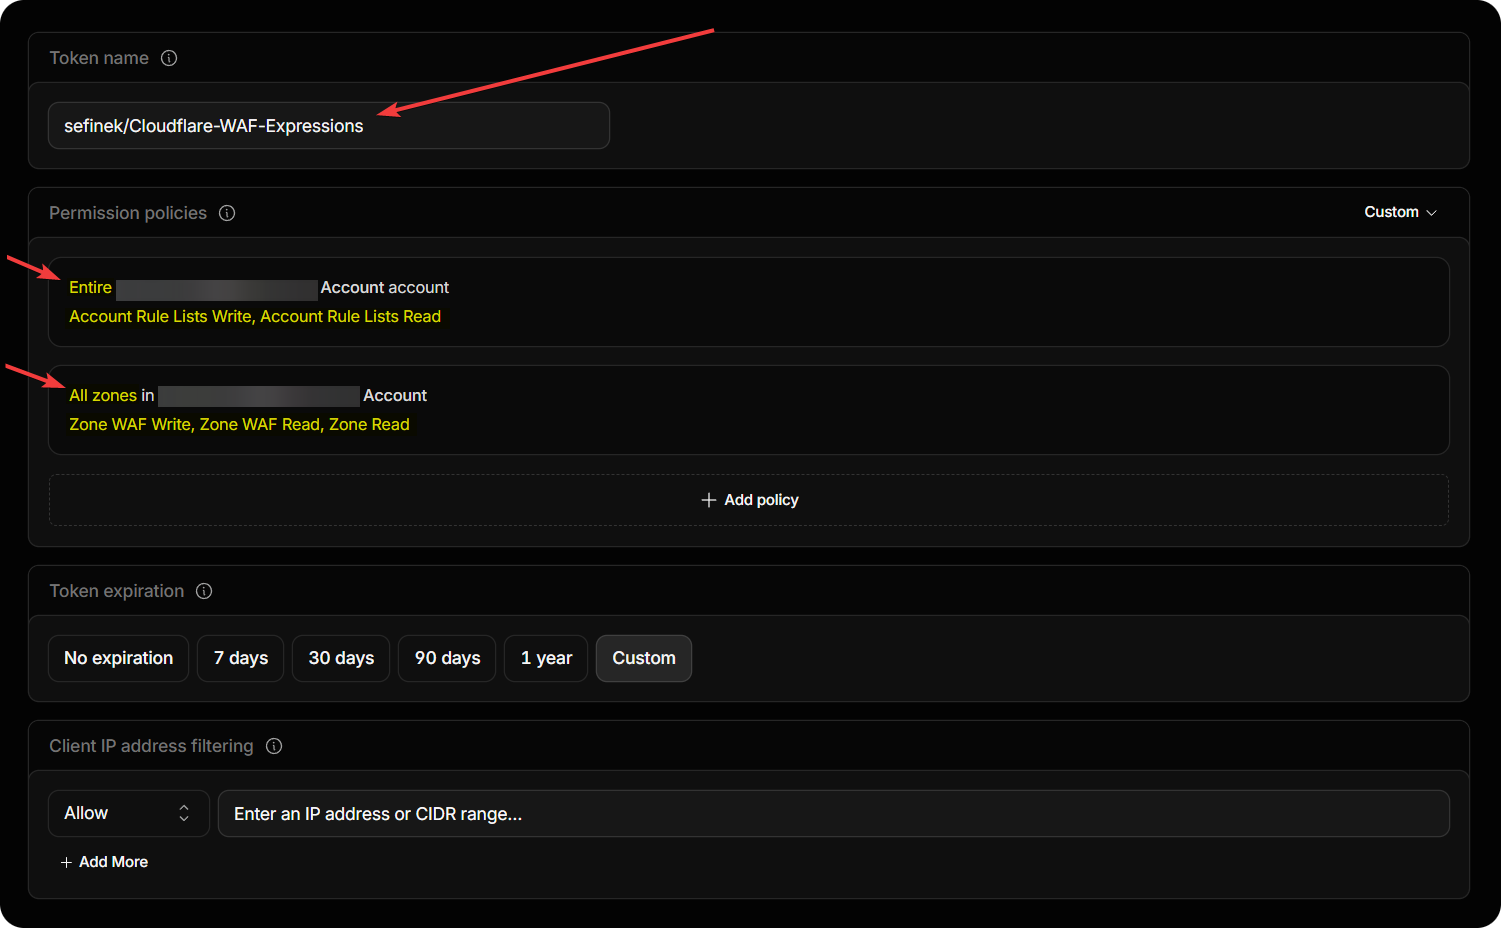
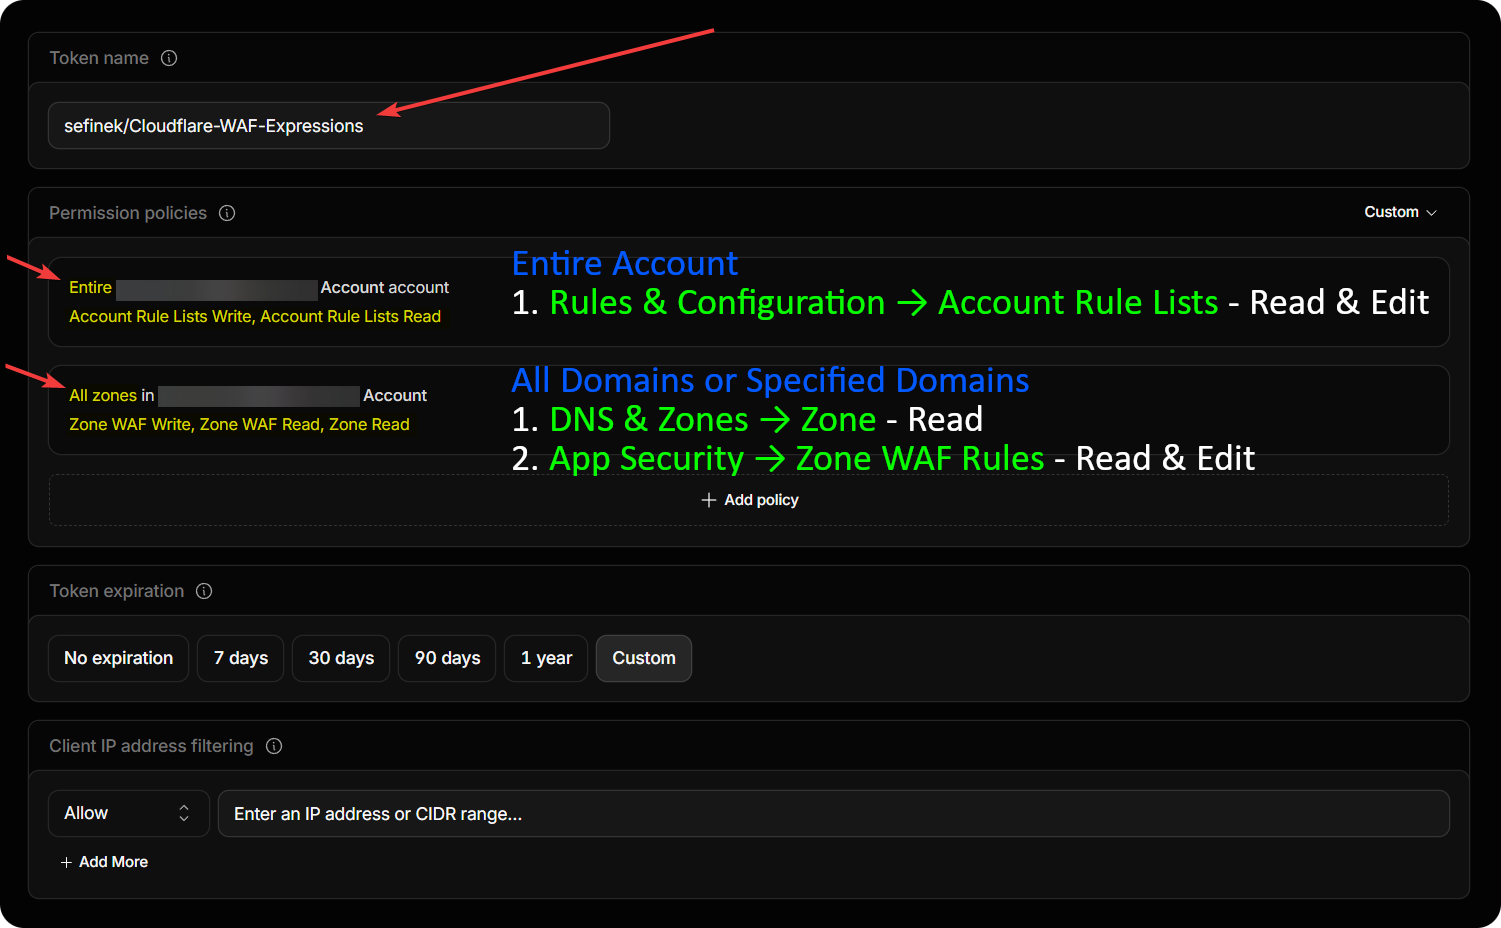
Update README.md

Changed region(s): [[0.3371, 0.375, 0.8274, 0.5312], [0.3371, 0.25, 0.95, 0.3438]]

diff --git a/README.md b/README.md
@@ -70,13 +70,8 @@ There's no need to add them manually, as the script takes care of everything for
 4. Open the `.env` file and configure the following variables:
    - Set `NODE_ENV` to `production`
    - Paste your Account API token (Account → Manage account → Account API tokens) in place of `CF_API_TOKEN`. The token needs the following permissions:
-      * `Entire Account`
-         1. **Rules & Configuration → Account Rule Lists** - Read & Edit
-      * `All Domains or Specified Domains`
-         1. **DNS & Zones → Zone** - Read
-         2. **App Security → Zone WAF Rules** - Read & Edit
-            ![Where to create the Account API token](data/images/api-token-location.png)
-            ![Required API token permissions](data/images/api-token-permissions.png)
+     ![Where to create the Account API token](data/images/api-token-location.png)
+     ![Required API token permissions](data/images/api-token-permissions.png)
    > [!NOTE]
    > Rules are deployed as WAF custom rules via the Rulesets API. The legacy Firewall Rules API was deprecated on 2025-06-15 and no longer accepts modifications. An old token may stop working if you use [User API Tokens](https://developers.cloudflare.com/fundamentals/api/get-started/create-token). Migrating to [Account API tokens](https://developers.cloudflare.com/fundamentals/api/get-started/account-owned-tokens) is highly recommended.
    - Set `CF_ACCOUNT_ID` to your Cloudflare Account ID (32 characters, found in the URL: `dash.cloudflare.com/<account_id>/configurations/lists`) - required for IP list synchronization